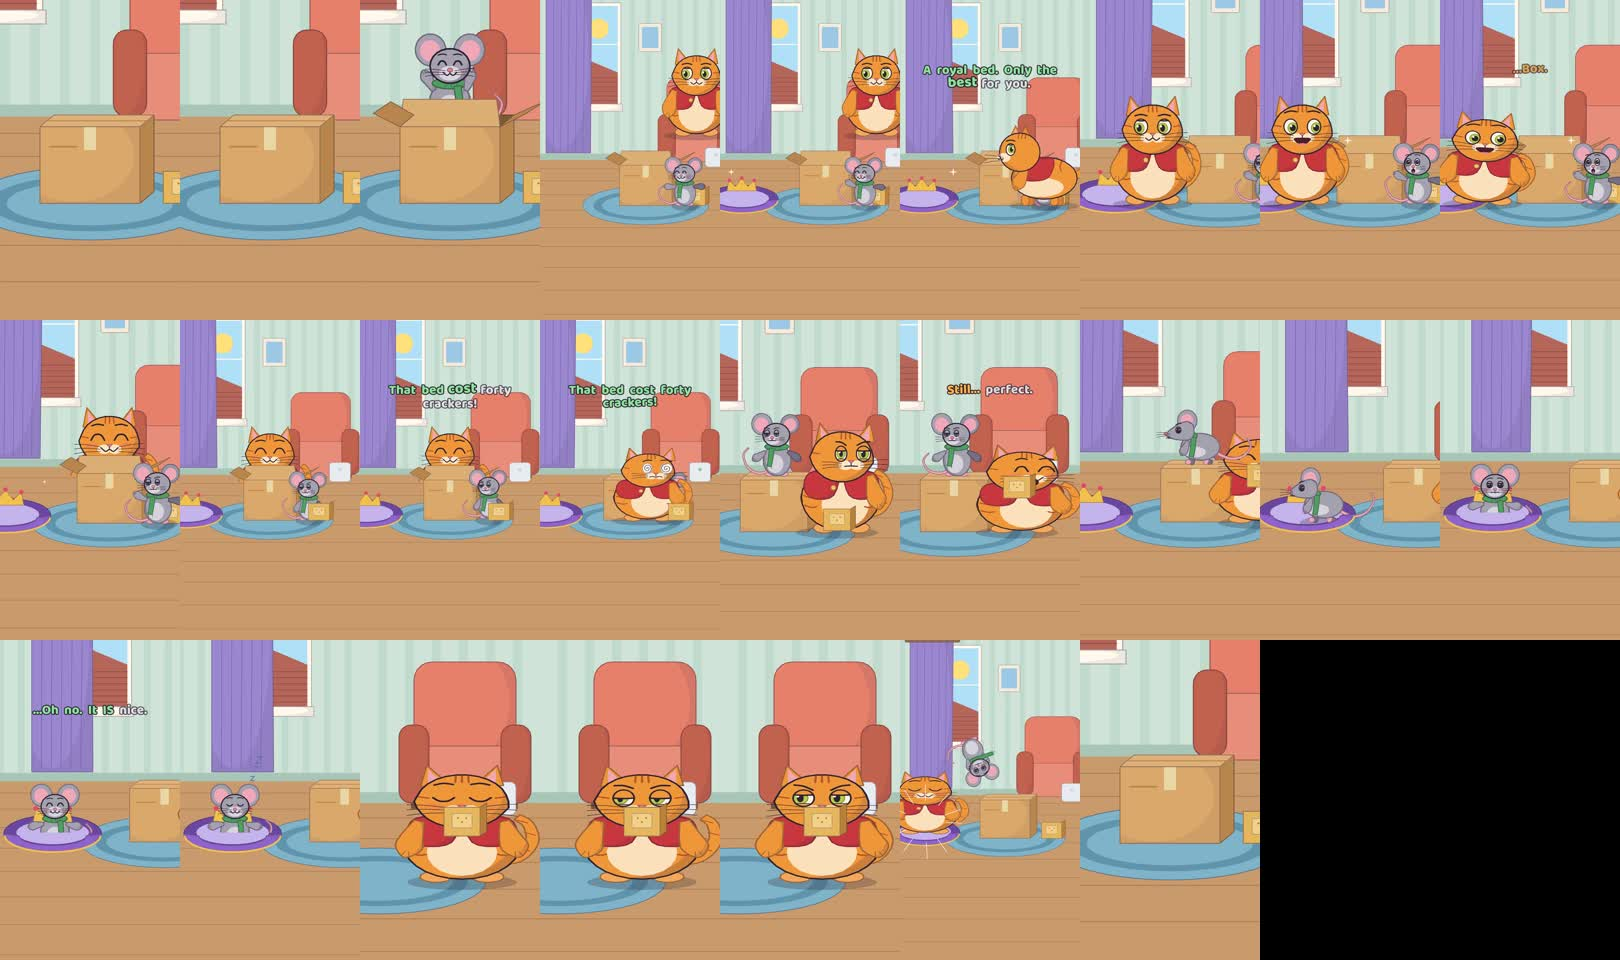
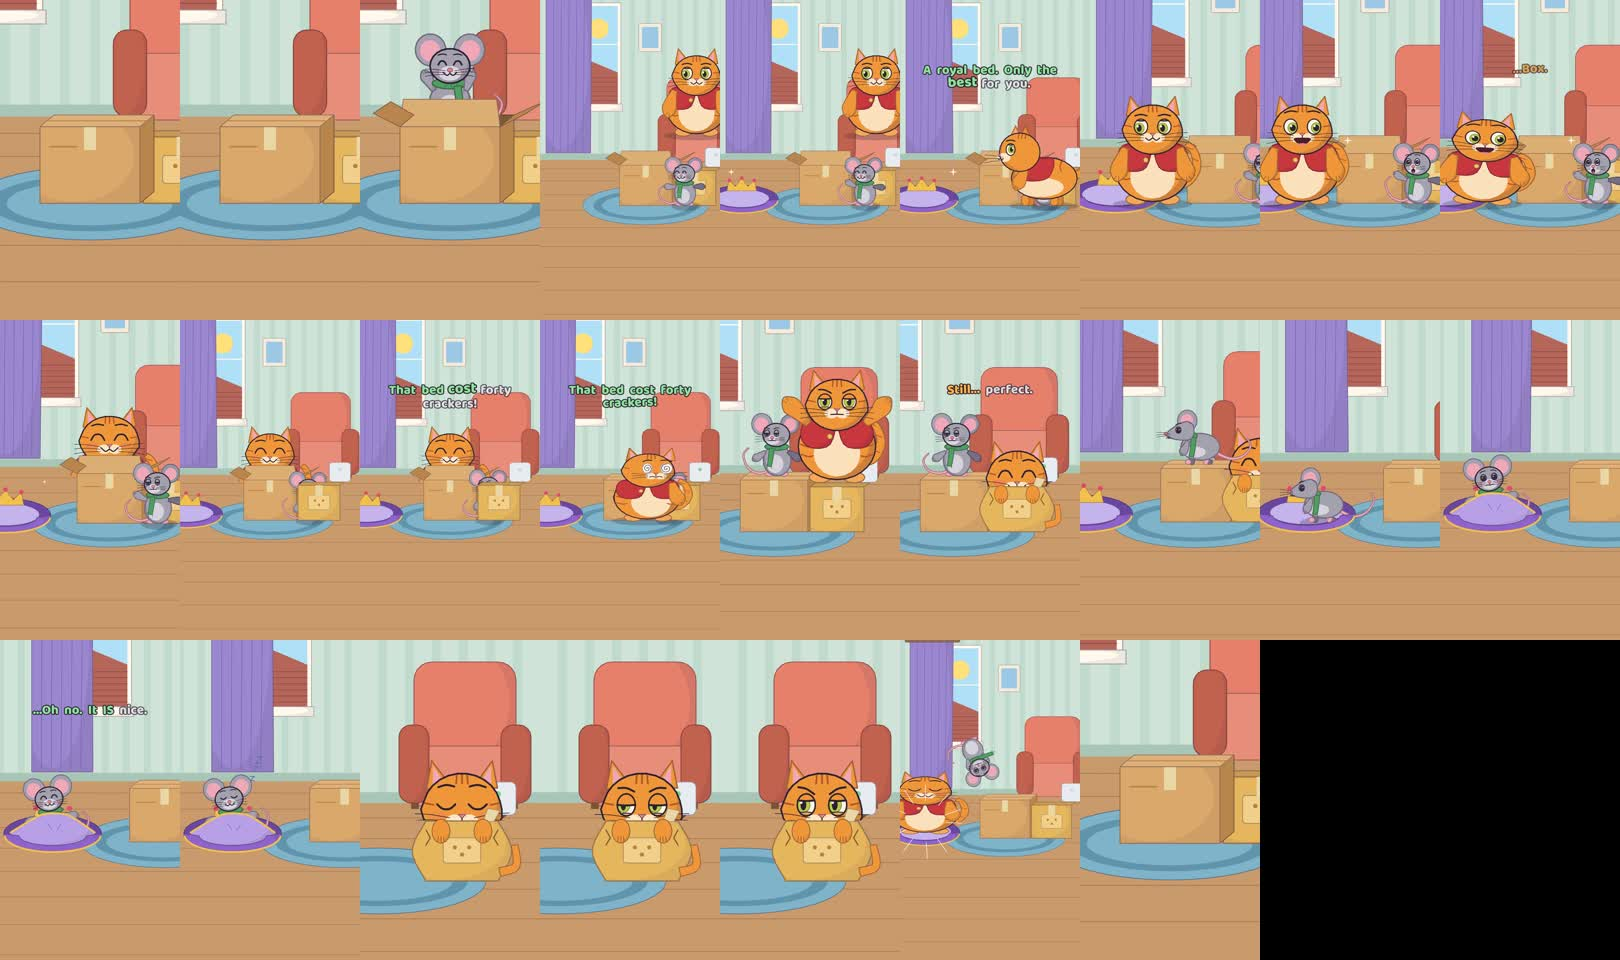
Story 07: final render with the approved tiny-box look (option B)
Claude-Session: https://claude.ai/code/session_01WxLgLEHMpMLzcpsXCfSmmp

diff --git a/stories/07-royal-bed/STATUS.md b/stories/07-royal-bed/STATUS.md
@@ -1,6 +1,6 @@
 # STATUS · 07-royal-bed (YouTube Shorts)
 
-- [x] สตอรี่บอร์ด (อนุมัติ; v2: Pip ดึงหางแทนพับกล่อง) · เสียงพูด 7 ประโยค 0 flagged · ปากขยับ + ซับ
+- [x] สตอรี่บอร์ด (อนุมัติ; v2: Pip ดึงหางแทนพับกล่อง; กล่องจิ๋วแบบ B "โผล่แค่หัว กล่องบวม" ผู้ใช้เลือก) · เสียงพูด 7 ประโยค 0 flagged · ปากขยับ + ซับ
 - [x] ห้องนั่งเล่นของซีรีส์ + กล่องใหญ่ + เตียงหลวง + กล่องแครกเกอร์จิ๋ว (`src/props.js`), 7 ช็อต, ลูปตรงกับเฟรมแรก
 - [x] SFX (`scripts/sfx.mjs`), เพลง (ซุกซน → แตรหรูล้อเลียน → เงียบ → กล่อมนอน → อิจฉา) 22 ห้อง = 50 s, มิกซ์ -14.7 LUFS
 - [x] เรนเดอร์ `out/video.mp4` · ภาพปก `out/cover.png` · `YOUTUBE.md`
